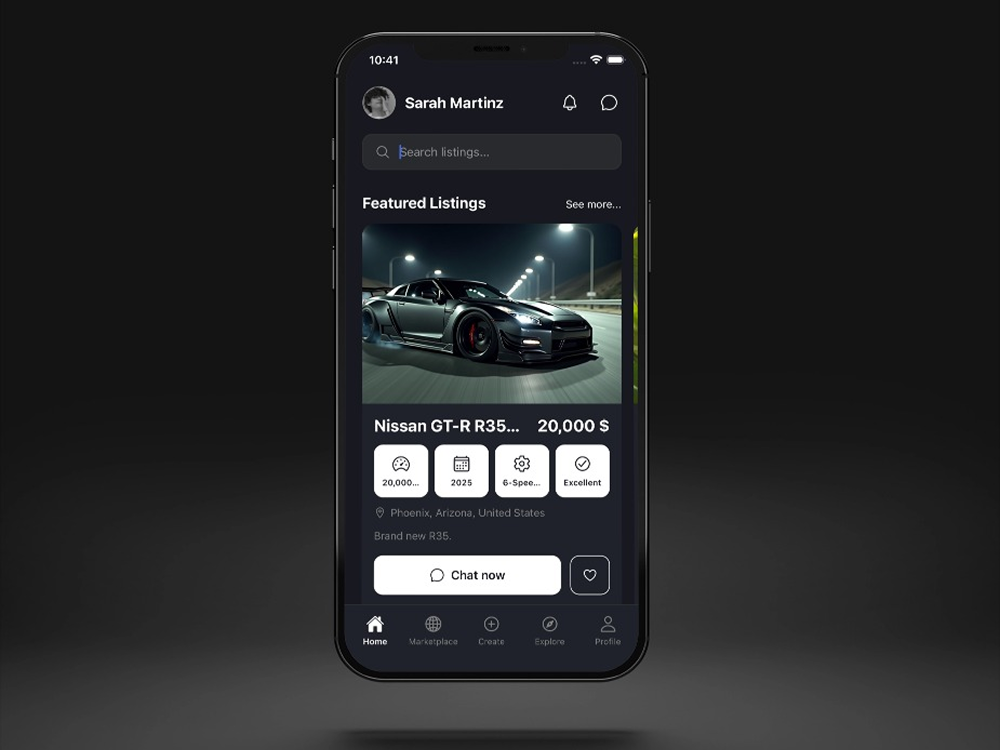
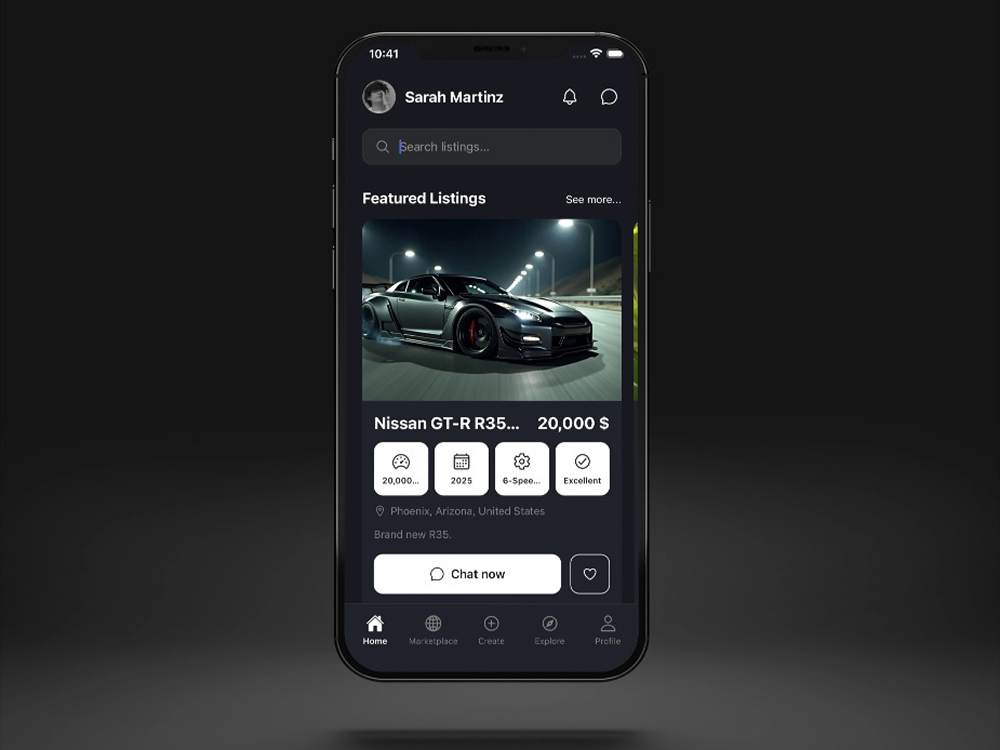
Pictures updated.

diff --git a/src/components/Navigation.tsx b/src/components/Navigation.tsx
@@ -10,7 +10,7 @@ const Navigation = () => {
     <>
     <nav className="fixed top-0 left-0 right-0 z-50 bg-background/80 backdrop-blur-lg border-b border-border">
       <div className="container mx-auto px-6 py-4">
-        <div className="flex items-center justify-between">
+        <div className="flex items-center gap-6">
           <a href="#hero" className="flex items-center gap-2">
             <img
               src={logo}
@@ -19,26 +19,28 @@ const Navigation = () => {
             />
           </a>
           
-          <div className="hidden md:flex items-center gap-8">
-            <a href="#why-gtrx" className="text-foreground/80 hover:text-primary transition-colors">
-              Why GTRX
-            </a>
-            <a href="#features" className="text-foreground/80 hover:text-primary transition-colors">
-              Features
-            </a>
-          </div>
+          <div className="ml-auto flex items-center gap-6">
+            <div className="hidden md:flex items-center gap-8">
+              <a href="#why-gtrx" className="text-foreground/80 hover:text-primary transition-colors">
+                Why GTRX
+              </a>
+              <a href="#features" className="text-foreground/80 hover:text-primary transition-colors">
+                Features
+              </a>
+            </div>
 
-          <div className="flex items-center gap-4">
-            {/* <Button variant="ghost" size="sm">
-              Sign In
-            </Button> */}
-            <Button 
-              variant="hero" 
-              size="sm"
-              onClick={() => setShowEmailForm(true)}
-            >
-              Get Early Access
-            </Button>
+            <div className="flex items-center gap-4">
+              {/* <Button variant="ghost" size="sm">
+                Sign In
+              </Button> */}
+              <Button 
+                variant="hero" 
+                size="sm"
+                onClick={() => setShowEmailForm(true)}
+              >
+                Get Early Access
+              </Button>
+            </div>
           </div>
         </div>
       </div>

diff --git a/src/components/AppPreview.tsx b/src/components/AppPreview.tsx
@@ -1,5 +1,5 @@
 import mockup1 from "@/assets/app-mockup-1.png";
-import mockup2 from "@/assets/app-mockup-2.jpeg";
+import mockup2 from "@/assets/app-mockup-2.png";
 
 const AppPreview = () => {
   return (
